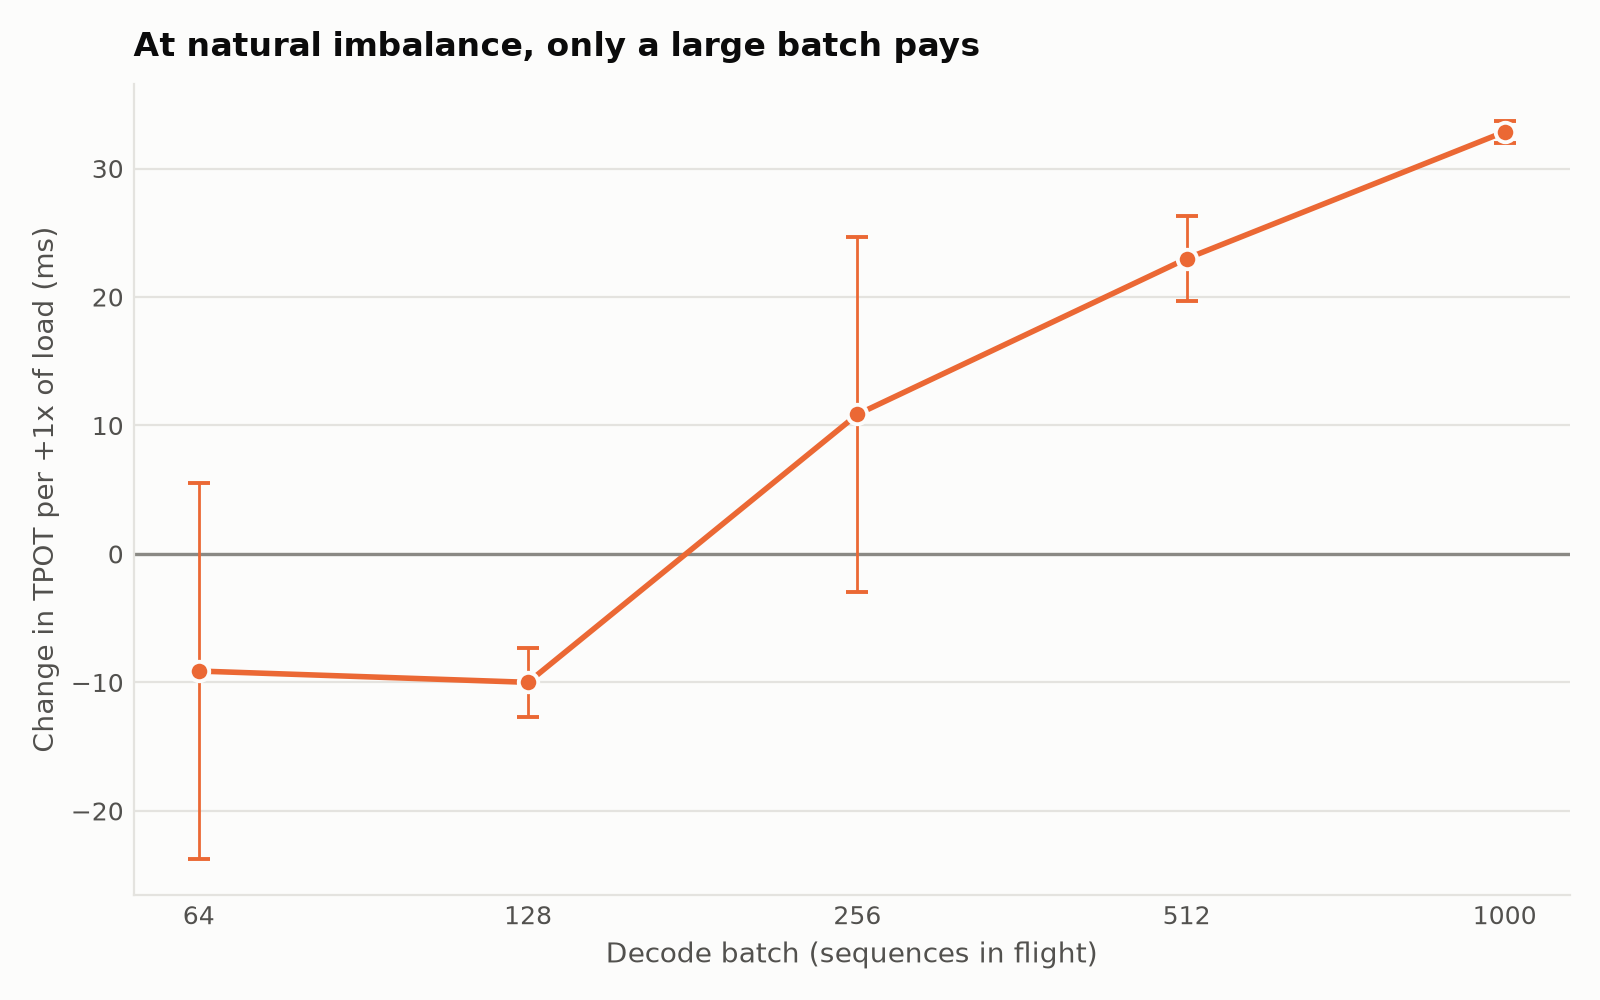
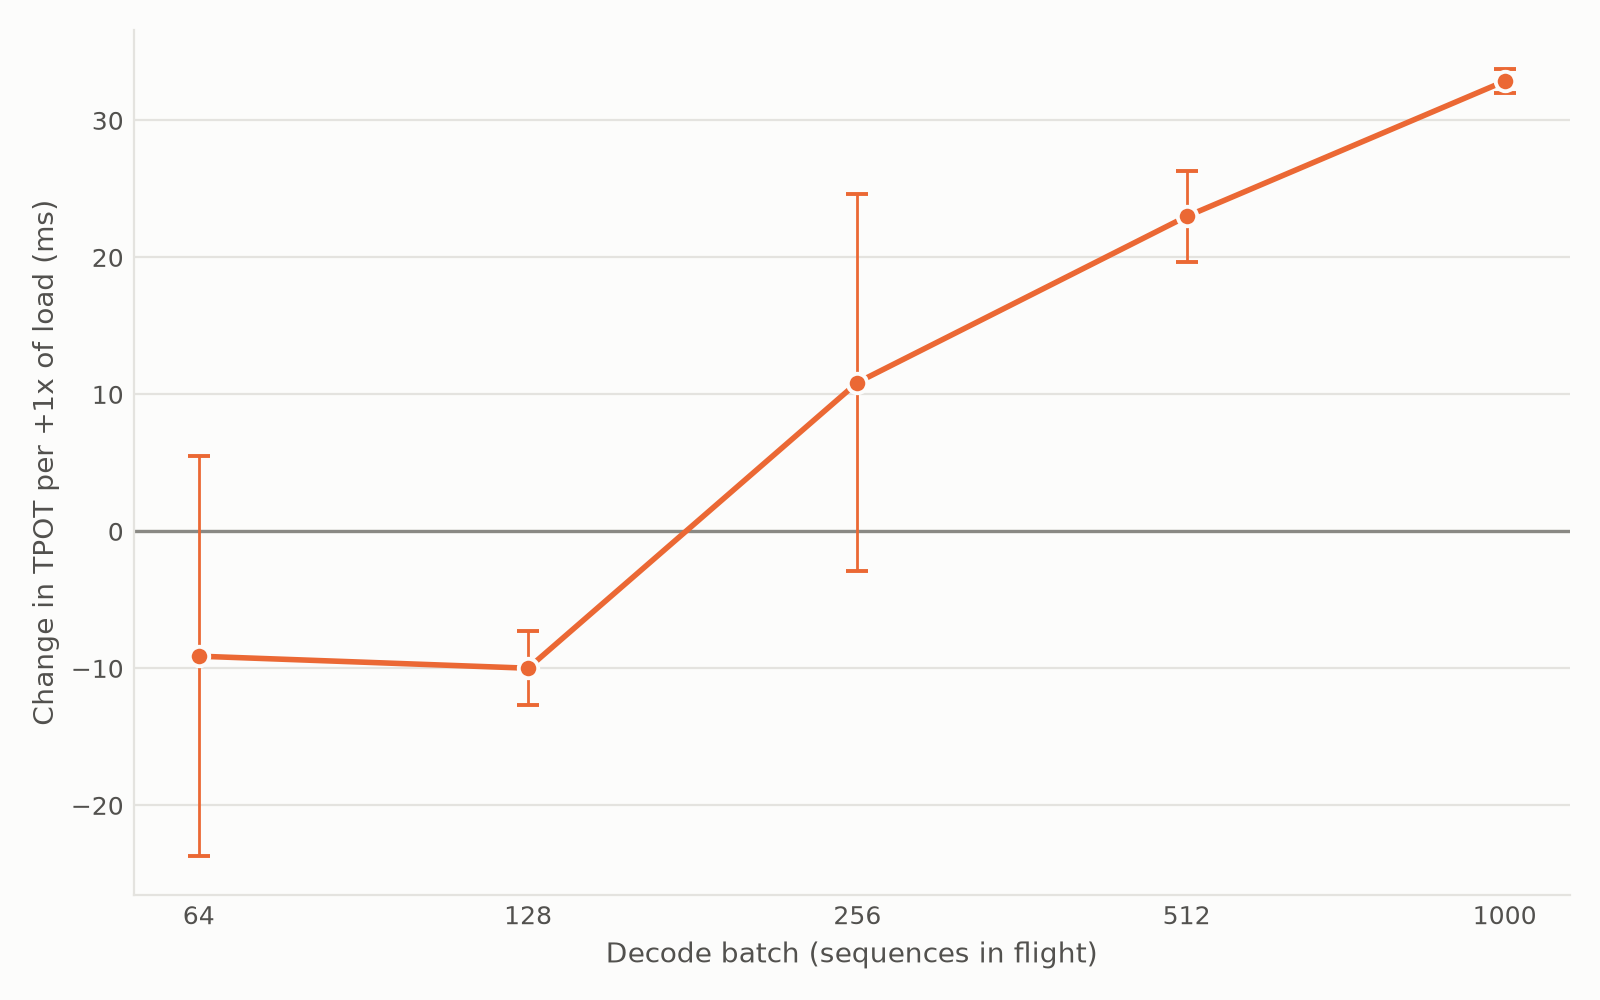
Drop the titles: axes, data, nothing else
What a plot shows gets said beside it. Where a title was carrying
something the axes did not - which window the screen ran at, that the
bars are a skew confined to 6 of 26 layers, which run a margin panel
belongs to - it moves into the axis label, because the two calibrated
deployments are otherwise the same model at the same batch and the
panels are indistinguishable.

diff --git a/scripts/summary_plots.py b/scripts/summary_plots.py
@@ -1,10 +1,11 @@
-"""Bare plots of the summary tables: a title, axes, the data, nothing else.
+"""Bare plots of the summary tables: axes, the data, nothing else.
 
     uv run python scripts/summary_plots.py [<dir>]
 
 Reads the CSVs that scripts/summary_tables.py writes and draws them into the
-same directory, so a plot and the numbers behind it stay together. No captions
-and no callouts: these are for a slide the speaker talks over.
+same directory, so a plot and the numbers behind it stay together. No titles,
+no captions and no callouts: these are for a slide the speaker talks over, and
+anything that has to be said about a plot is said beside it, not on it.
 """
 
 from __future__ import annotations
@@ -39,7 +40,7 @@ def num(value, default=float("nan")):
         return default
 
 
-def axes(ax, xlabel, ylabel, title):
+def axes(ax, xlabel, ylabel):
     ax.set_facecolor(SURFACE)
     ax.grid(axis="y", color=GRID, lw=0.8)
     ax.set_axisbelow(True)
@@ -50,7 +51,6 @@ def axes(ax, xlabel, ylabel, title):
     ax.tick_params(colors=INK2, labelsize=9, length=0)
     ax.set_xlabel(xlabel, color=INK2, fontsize=10)
     ax.set_ylabel(ylabel, color=INK2, fontsize=10)
-    ax.set_title(title, color=INK, fontsize=12, fontweight="bold", loc="left", pad=10)
 
 
 def save(fig, out, name):
@@ -77,8 +77,7 @@ def plot_cost_vs_load(table, out):
         series.setdefault((r["model"], shape), []).append(
             (num(r["busiest_rank"]), num(r["cost_pct"]), num(r["cost_sd_pct"], 0.0)))
     fig, ax = plt.subplots(figsize=(8.0, 5.0), facecolor=SURFACE)
-    axes(ax, "Load on the busiest rank (1.0 = balanced)", "Change in TPOT (%)",
-         "Cost of imbalance, by model and shape")
+    axes(ax, "Load on the busiest rank (1.0 = balanced)", "Change in TPOT (%)")
     ax.axhline(0, color=GRID, lw=1)
     for (model, shape), pts in sorted(series.items()):
         pts.sort()
@@ -116,8 +115,7 @@ def plot_batch(table, out):
     if not points:
         return
     fig, ax = plt.subplots(figsize=(8.0, 5.0), facecolor=SURFACE)
-    axes(ax, "Decode batch (sequences in flight)", "Change in TPOT per +1x of load (ms)",
-         "At natural imbalance, only a large batch pays")
+    axes(ax, "Decode batch (sequences in flight)", "Change in TPOT per +1x of load (ms)")
     ax.axhline(0, color=INK3, lw=1.2)
     ax.errorbar([p[0] for p in points], [p[1] for p in points], yerr=[p[2] for p in points],
                 ls="-", marker="o", ms=7, lw=2, capsize=4, elinewidth=1, color=ORANGE,
@@ -140,8 +138,8 @@ def plot_detection(table, out):
     if not want:
         return
     fig, ax = plt.subplots(figsize=(8.0, 5.0), facecolor=SURFACE)
-    axes(ax, "Load on the busiest rank", "Share of windows that alarm",
-         "What the screen catches (8 requests, ~1% of routing)")
+    axes(ax, "Load on the busiest rank (window of 8 requests, 4 layers, a tenth of the tokens)",
+         "Share of windows that alarm")
     for model in sorted({r["model"] for r in want}):
         pts = sorted((num(r["busiest_rank"]), num(r["detection_rate"]),
                       r.get("costs_latency") == "True") for r in want if r["model"] == model)
@@ -164,8 +162,8 @@ def plot_layer_sampling(table, out):
         return
     want.sort(key=lambda r: (-int(num(r["layers"], 0)), r["layer_choice"]))
     fig, ax = plt.subplots(figsize=(8.0, 5.0), facecolor=SURFACE)
-    axes(ax, "", "Share of windows that alarm",
-         "A skew in 6 of 26 layers: fixed layers miss it")
+    axes(ax, "Layers counted per window, on a skew confined to 6 of 26 layers",
+         "Share of windows that alarm")
     labels = [f"{r['layers']} layers\n{r['layer_choice']}" for r in want]
     values = [num(r["detection_rate"]) for r in want]
     ax.bar(range(len(values)), values, 0.6,
@@ -194,13 +192,18 @@ def plot_margin(table, out):
     for r in want:
         by_run.setdefault(r["run"], []).append(
             (num(r["margin"]), num(r["false_alarm_rate"]), num(r["warns_before_cost"])))
-    fig, axs = plt.subplots(1, len(by_run), figsize=(8.0, 5.0), facecolor=SURFACE, squeeze=False)
+    fig, axs = plt.subplots(1, len(by_run), figsize=(5.5 * len(by_run), 5.0),
+                            facecolor=SURFACE, squeeze=False)
     for ax, (run, pts) in zip(axs[0], sorted(by_run.items())):
         pts.sort()
         model = "mixtral" if "mixtral" in run else "deepseek-v2"
         batch = run.split("_bs")[-1].split("_")[0] if "_bs" in run else "?"
-        axes(ax, "Alarm margin (0 = at the cost, 1 = at benign traffic)", "Share of windows",
-             f"{LABEL[model]}, batch {batch}: what a margin buys")
+        shape = "a different rank hot each layer" if "rotating" in run else "one rank hot"
+        # The run goes on the axis rather than in a title: with more than one
+        # panel there is otherwise nothing saying which is which, and the two
+        # calibrated so far are the same model at the same batch.
+        axes(ax, f"Alarm margin (0 = alarm at the cost, 1 = at benign traffic)\n"
+                 f"{LABEL[model]}, batch {batch}, {shape}", "Share of windows")
         x = [p[0] for p in pts]
         ax.plot(x, [p[2] for p in pts], "-o", ms=7, lw=2, color=BLUE, mec=SURFACE, mew=1.4,
                 label="skew caught while still harmless")
